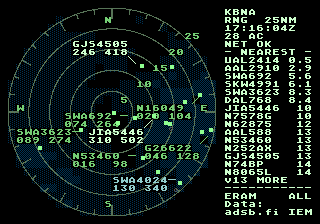
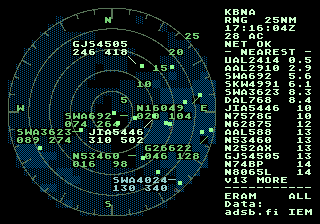
Weather: brighter stipple colours in every theme
A lone light cell was nearly invisible on a TV at the first, dim colours.

diff --git a/src/theme.c b/src/theme.c
@@ -6,7 +6,7 @@ const struct theme themes[THEME_COUNT] = {
         .name = "CLASSIC",
         .pal = {
             /* PAL0: bg, ring, glow 2..11 (set at runtime), trail, weather, -, white text */
-            { 0x000, 0x040, 0, 0, 0, 0, 0, 0, 0, 0, 0, 0, 0x0A0, 0x420, 0x000, 0xEEE },
+            { 0x000, 0x040, 0, 0, 0, 0, 0, 0, 0, 0, 0, 0, 0x0A0, 0x840, 0x000, 0xEEE },
             /* PAL1: -, blip levels (bright..dim), amber select, grey stale, ..., green text */
             { 0x000, 0x6E6, 0x0C0, 0x080, 0x040, 0x0AE, 0x666, 0, 0, 0, 0, 0, 0, 0, 0, 0x0E0 },
             /* PAL2: cyan text */
@@ -22,7 +22,7 @@ const struct theme themes[THEME_COUNT] = {
         .name = "STARS",
         .pal = {
             /* PAL0: black bg, blue-grey rings, no glow, grey trail, white text */
-            { 0x000, 0x844, 0, 0, 0, 0, 0, 0, 0, 0, 0, 0, 0x888, 0x622, 0x000, 0xEEE },
+            { 0x000, 0x844, 0, 0, 0, 0, 0, 0, 0, 0, 0, 0, 0x888, 0xA42, 0x000, 0xEEE },
             /* PAL1: white blips, amber select, grey stale, white-ish text */
             { 0x000, 0xEEE, 0xEEE, 0xEEE, 0xEEE, 0x0AE, 0x666, 0, 0, 0, 0, 0, 0, 0, 0, 0xCCC },
             /* PAL2: cyan text */
@@ -39,7 +39,7 @@ const struct theme themes[THEME_COUNT] = {
         .name = "AMBER",
         .pal = {
             /* amber phosphor: orange sweep, cream/amber/orange tags, red emergencies */
-            { 0x000, 0x024, 0, 0, 0, 0, 0, 0, 0, 0, 0, 0, 0x06C, 0x222, 0x000, 0x8CE },
+            { 0x000, 0x024, 0, 0, 0, 0, 0, 0, 0, 0, 0, 0, 0x06C, 0x444, 0x000, 0x8CE },
             { 0x000, 0x8CE, 0x0AE, 0x06A, 0x036, 0xEEE, 0x444, 0, 0, 0, 0, 0, 0, 0, 0, 0x08E },
             { 0x000, 0, 0, 0, 0, 0, 0, 0, 0, 0, 0, 0, 0, 0, 0, 0x0CE },
             { 0x000, 0x66E, 0x00E, 0x00A, 0x006, 0, 0, 0, 0, 0, 0, 0, 0, 0, 0, 0x22E },
@@ -52,7 +52,7 @@ const struct theme themes[THEME_COUNT] = {
         .name = "NIGHT",
         .pal = {
             /* dim reds for a dark room; tags shift red -> orange with altitude, emergencies pale pink */
-            { 0x000, 0x004, 0, 0, 0, 0, 0, 0, 0, 0, 0, 0, 0x006, 0x202, 0x000, 0x28E },
+            { 0x000, 0x004, 0, 0, 0, 0, 0, 0, 0, 0, 0, 0, 0x006, 0x404, 0x000, 0x28E },
             { 0x000, 0x00E, 0x00A, 0x006, 0x004, 0x46E, 0x224, 0, 0, 0, 0, 0, 0, 0, 0, 0x00C },
             { 0x000, 0, 0, 0, 0, 0, 0, 0, 0, 0, 0, 0, 0, 0, 0, 0x04E },
             { 0x000, 0xCCE, 0xAAE, 0x88C, 0x668, 0, 0, 0, 0, 0, 0, 0, 0, 0, 0, 0xCCE },
@@ -65,7 +65,7 @@ const struct theme themes[THEME_COUNT] = {
         .name = "MARINE",
         .pal = {
             /* ship's radar: yellow-orange targets on navy, steel-blue rings */
-            { 0x200, 0x642, 0, 0, 0, 0, 0, 0, 0, 0, 0, 0, 0x08A, 0x420, 0x200, 0xEEE },
+            { 0x200, 0x642, 0, 0, 0, 0, 0, 0, 0, 0, 0, 0, 0x08A, 0x842, 0x200, 0xEEE },
             { 0x000, 0x8EE, 0x0CE, 0x08A, 0x246, 0xEE0, 0x644, 0, 0, 0, 0, 0, 0, 0, 0x200, 0x0CE },
             { 0x000, 0, 0, 0, 0, 0, 0, 0, 0, 0, 0, 0, 0, 0, 0x200, 0xEC4 },
             { 0x000, 0x66E, 0x00E, 0x00A, 0x226, 0, 0, 0, 0, 0, 0, 0, 0, 0, 0x200, 0x22E },
@@ -78,7 +78,7 @@ const struct theme themes[THEME_COUNT] = {
         .name = "ICE",
         .pal = {
             /* blue-white phosphor */
-            { 0x000, 0x642, 0, 0, 0, 0, 0, 0, 0, 0, 0, 0, 0xA86, 0x240, 0x000, 0xEEE },
+            { 0x000, 0x642, 0, 0, 0, 0, 0, 0, 0, 0, 0, 0, 0xA86, 0x480, 0x000, 0xEEE },
             { 0x000, 0xEEE, 0xECA, 0xA86, 0x642, 0x0AE, 0x666, 0, 0, 0, 0, 0, 0, 0, 0, 0xE86 },
             { 0x000, 0, 0, 0, 0, 0, 0, 0, 0, 0, 0, 0, 0, 0, 0, 0xEE6 },
             { 0x000, 0x66E, 0x00E, 0x00A, 0x006, 0, 0, 0, 0, 0, 0, 0, 0, 0, 0, 0x44E },
@@ -91,7 +91,7 @@ const struct theme themes[THEME_COUNT] = {
         .name = "POCKET",
         .pal = {
             /* handheld LCD: dark olive on pea green, brown emergencies; no sweep, an LCD doesn't glow */
-            { 0x0A8, 0x086, 0, 0, 0, 0, 0, 0, 0, 0, 0, 0, 0x262, 0x086, 0x0A8, 0x020 },
+            { 0x0A8, 0x086, 0, 0, 0, 0, 0, 0, 0, 0, 0, 0, 0x262, 0x064, 0x0A8, 0x020 },
             { 0x000, 0x020, 0x020, 0x020, 0x020, 0x024, 0x086, 0, 0, 0, 0, 0, 0, 0, 0x0A8, 0x042 },
             { 0x000, 0, 0, 0, 0, 0, 0, 0, 0, 0, 0, 0, 0, 0, 0x0A8, 0x240 },
             { 0x000, 0x026, 0x026, 0x026, 0x026, 0, 0, 0, 0, 0, 0, 0, 0, 0, 0x0A8, 0x026 },
@@ -104,7 +104,7 @@ const struct theme themes[THEME_COUNT] = {
         .name = "SUNSET",
         .pal = {
             /* synthwave: cyan sweep over purple, magenta rings, pink trails */
-            { 0x402, 0x80A, 0, 0, 0, 0, 0, 0, 0, 0, 0, 0, 0xA4C, 0x624, 0x402, 0xEEE },
+            { 0x402, 0x80A, 0, 0, 0, 0, 0, 0, 0, 0, 0, 0, 0xA4C, 0xA46, 0x402, 0xEEE },
             { 0x000, 0xEEA, 0xEE4, 0xCA2, 0x864, 0x0EE, 0x846, 0, 0, 0, 0, 0, 0, 0, 0x402, 0x0AE },
             { 0x000, 0, 0, 0, 0, 0, 0, 0, 0, 0, 0, 0, 0, 0, 0x402, 0xEE2 },
             { 0x000, 0x66E, 0x00E, 0x00A, 0x006, 0, 0, 0, 0, 0, 0, 0, 0, 0, 0x402, 0x22E },
@@ -117,7 +117,7 @@ const struct theme themes[THEME_COUNT] = {
         .name = "ERAM",
         .pal = {
             /* en-route centre display: no sweep, grey-green maps, green targets, pale data blocks */
-            { 0x000, 0x464, 0, 0, 0, 0, 0, 0, 0, 0, 0, 0, 0x686, 0x420, 0x000, 0xCEC },
+            { 0x000, 0x464, 0, 0, 0, 0, 0, 0, 0, 0, 0, 0, 0x686, 0x840, 0x000, 0xCEC },
             { 0x000, 0x8E8, 0x8E8, 0x8E8, 0x8E8, 0x0CE, 0x444, 0, 0, 0, 0, 0, 0, 0, 0, 0x6C6 },
             { 0x000, 0, 0, 0, 0, 0, 0, 0, 0, 0, 0, 0, 0, 0, 0, 0xCC8 },
             { 0x000, 0x22E, 0x22E, 0x22E, 0x22E, 0, 0, 0, 0, 0, 0, 0, 0, 0, 0, 0x22E },

diff --git a/lode/ui/weather.md b/lode/ui/weather.md
@@ -80,8 +80,10 @@ static u16 wx_word(s16 x, s16 y)
 ```
 
 ## Theme colours (PAL0 13, dim: below every text colour)
-Classic `0x420`, STARS `0x622`, AMBER `0x222`, NIGHT `0x202`, MARINE `0x420`, ICE `0x240`, POCKET `0x086` (darker
-than the pea-green background), SUNSET `0x624`, ERAM `0x420` (0x0BGR). Checked in MAME shots; tune on a TV.
+Classic `0x840`, STARS `0xA42`, AMBER `0x444`, NIGHT `0x404`, MARINE `0x842`, ICE `0x480`, POCKET `0x064` (darker
+than the pea-green background), SUNSET `0xA46`, ERAM `0x840` (0x0BGR). The first set (about half as bright: `0x420`
+...) made a lone light cell nearly invisible on the owner's TV (2026-11-02); the brighter set still sits under the
+tags in MAME. Tune further on a TV.
 
 ## Emulator + tests
 - `res/fake/wx.bin` (`make fake-feed`): `relay -pack-wx` samples `relay/testdata/wx/kmco-100nm.png` (a moderate/heavy
